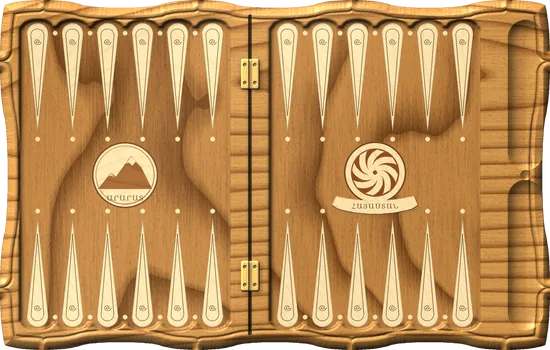
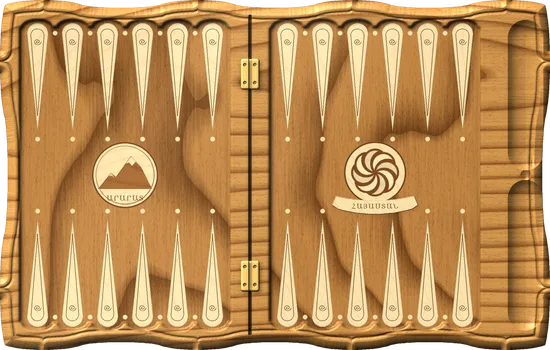
Аревахач-маркетри на досках, объяснение запрещённых ходов, плавная отмена хода

Changed region(s): [[0.6182, 0.4286, 0.7418, 0.5714]]

diff --git a/index.html b/index.html
@@ -719,7 +719,7 @@ function doRoll(after){
 
 function applyStep(st,cb){
   const pl=G.turn, prev=G.s;
-  G.hist.push({s:prev,rem:G.rem.slice(),headUsed:G.headUsed});
+  G.hist.push({s:prev,rem:G.rem.slice(),headUsed:G.headUsed,grp:G.grp,st});
   G.s=st.ns; G.rem=removeOne(G.rem,st.d); if(st.from===0)G.headUsed++;
   G.sel=null;
   const n0=prev.n[st.src];
@@ -736,7 +736,7 @@ function applyStep(st,cb){
   });
 }
 function applyPath(path){
-  G.auto=true; let i=0;
+  G.auto=true; G.grp=(G.grp||0)+1; let i=0;   // шаги одного касания — одна группа для отмены
   const next=()=>{ if(i<path.length) applyStep(path[i++],()=>later(next,60)); else {G.auto=false; render();} };
   next();
 }
@@ -746,25 +746,78 @@ function afterStep(){
   else setStatus(`Осталось: <b>${G.rem.join(', ')}</b>.`);
   render();
 }
-function fly(pl,[x0,y0],[x1,y1],toOff,done){
+function fly(pl,[x0,y0],[x1,y1],toOff,done,fromOff){
   const g=document.createElementNS(NS,'g');
   g.innerHTML=checker(0,0,pl);
   $('lFx').appendChild(g);
   const t0=performance.now(), D=matchMedia('(prefers-reduced-motion: reduce)').matches?1:300;
   busy=true;
+  let finished=false;
+  const finish=()=>{ if(finished) return; finished=true; g.remove(); busy=false; done(); };
   const step=t=>{
+    if(finished) return;
     let k=Math.min(1,(t-t0)/D); const e=k<.5?2*k*k:1-Math.pow(-2*k+2,2)/2;
     const x=x0+(x1-x0)*e, y=y0+(y1-y0)*e-Math.sin(Math.PI*e)*40;
-    const sc=toOff?1-0.4*e:1;
+    const sc=toOff?1-0.4*e:fromOff?.6+.4*e:1;
     g.setAttribute('transform',`translate(${x},${y}) scale(${sc})`);
-    if(k<1) requestAnimationFrame(step); else {g.remove(); busy=false; done();}
+    if(k<1) requestAnimationFrame(step); else finish();
   };
   requestAnimationFrame(step);
+  setTimeout(finish,D+150);   // если приложение свернули посреди анимации — ход всё равно завершится
 }
 function undo(){
   if(busy||G.auto||!G.hist.length||!isHuman(G.turn)||G.phase!=='move') return;
-  const h=G.hist.pop(); G.s=h.s; G.rem=h.rem; G.headUsed=h.headUsed; G.sel=null;
-  refreshSteps(); setStatus(`Ход отменён. Осталось: <b>${G.rem.join(', ')}</b>.`); render();
+  // отменяем весь ход одного касания (например 2+2) и плавно возвращаем шашку на место
+  const pl=G.turn, last=G.hist[G.hist.length-1];
+  let first=last;
+  while(G.hist.length&&G.hist[G.hist.length-1].grp===last.grp) first=G.hist.pop();
+  const cur=G.s, lst=last.st;
+  let from;
+  if(lst.to==='off') from=traySlot(pl,cur.off[pl]-1);
+  else{const n=cur.n[lst.to]; from=slotXY(lst.to,n-1,n);}
+  G.s=first.s; G.rem=first.rem; G.headUsed=first.headUsed; G.sel=null;
+  const src=first.st.src, n=G.s.n[src], to=slotXY(src,n-1,n);
+  refreshSteps(); flyHide=src; render();
+  fly(pl,from,to,false,()=>{
+    flyHide=null; sClack(n>1);
+    setStatus(`Ход отменён. Осталось: <b>${G.rem.join(', ')}</b>.`); render();
+  },lst.to==='off');
+}
+// Почему выбранная шашка не может пойти на пункт t — понятным языком
+function explainMove(src,t){
+  const ctx=curCtx(), pl=ctx.pl, opp=1-pl, from=P(pl,src);
+  if(t==='off') return homeCount(ctx.s,pl)<15
+    ? 'Выбрасывать шашки можно, только когда все 15 стоят в доме.'
+    : 'Эту шашку сейчас не выбросить: больший кубик можно взять, только если на дальних пунктах дома шашек нет.';
+  const to=P(pl,t), dist=to-from;
+  if(dist<=0) return 'Шашки ходят только вперёд, против часовой стрелки.';
+  const sums=new Set([0]);
+  for(const d of ctx.rem) for(const v of [...sums]) sums.add(v+d);
+  if(!sums.has(dist)) return `На ${dist} не сходить: на кубиках ${ctx.rem.join(', ')}.`;
+  if(own(ctx.s,t,opp)) return 'Пункт занят соперником — туда ходить нельзя.';
+  if(from===0&&ctx.headUsed>=ctx.headLimit) return 'С головы за ход снимается только одна шашка (две — лишь при первом броске 6‑6, 4‑4 или 3‑3).';
+  let why=null;
+  const go=(c,pos,acc)=>{
+    if(acc===dist) return true;
+    for(const d of new Set(c.rem)){
+      if(acc+d>dist) continue;
+      const ns=tryStep(c.s,pl,pos,d,c);
+      if(!ns){
+        const j=P(pl,pos+d);
+        if(own(c.s,j,opp)) why=why||{k:'mid',d:acc+d};
+        else if(pos===0&&c.headUsed>=c.headLimit) why=why||{k:'head'};
+        else why=why||{k:'block'};
+        continue;
+      }
+      if(go(nextCtx(c,{from:pos,d,ns}),pos+d,acc+d)) return true;
+    }
+    return false;
+  };
+  if(go(ctx,from,0)) return 'Так нельзя: после этого хода остальные кубики сыграть не получится, а по правилам нужно сыграть все, что можно (если только один — больший).';
+  if(!why) return `На ${dist} не сходить: на кубиках ${ctx.rem.join(', ')}.`;
+  if(why.k==='mid') return `Промежуточный пункт (через ${why.d}) занят соперником. При ходе одной шашкой на сумму кубиков каждый промежуточный пункт должен быть свободен.`;
+  if(why.k==='head') return 'С головы за ход снимается только одна шашка.';
+  return 'Нельзя ставить заграждение из 6 шашек подряд, если впереди него нет ни одной шашки соперника.';
 }
 function endTurn(){
   G.turn=1-G.turn; G.phase='roll'; G.rem=[]; G.hist=[]; G.sel=null; G.steps=[]; G.targets=null;
@@ -967,6 +1020,8 @@ $('board').addEventListener('click',e=>{
   if(t!=='off'&&G.steps.some(x=>x.src===t)){
     G.sel=G.sel===t?null:t; G.targets=null; render(); return;
   }
+  if(G.sel!=null&&t!==G.sel){ setStatus(explainMove(G.sel,t)); return; }   // выбор не сбрасываем
+  if(t!=='off'&&own(G.s,t,G.turn)){ setStatus('Этой шашкой сейчас не сходить. Подсвечены шашки, которыми можно ходить.'); return; }
   G.sel=null; G.targets=null; render();
 });
 $('bMain').addEventListener('click',()=>{

diff --git a/sw.js b/sw.js
@@ -1,5 +1,5 @@
 // Офлайн-кэш: страница, доски, звуки и шрифты кэшируются при установке.
-const VERSION = 'nardy-v4';
+const VERSION = 'nardy-v5';
 const SHELL = [
   './',
   'index.html',

diff --git a/tools/render_boards.py b/tools/render_boards.py
@@ -181,20 +181,48 @@ def star_poly(cx, cy, R, r, n=8, rot=-90):
     return pts
 
 
-def arevakhach_petals(cx, cy, R, n=8):
-    """Лопасти знака вечности: дуги, закрученные по часовой стрелке."""
-    petals = []
+def arevakhach_masks(cx, cy, R, n=8, band=.085, rot=-90):
+    """Аревахач по классическому построению: 8 кругов радиуса R/2 через центр.
+    Лопасть k — серп между кругом k и соседним кругом k+1; тёмные полосы — границы кругов.
+    Возвращает (окно-срез, маска всего знака, список масок лопастей, углы лопастей) в локальном окне."""
+    pad = 4
+    x0, x1 = int((cx - R - pad) * S), int((cx + R + pad) * S)
+    y0, y1 = int((cy - R - pad) * S), int((cy + R + pad) * S)
+    yy, xx = np.mgrid[y0:y1, x0:x1] / S
+    r = np.hypot(xx - cx, yy - cy)
+    w = R * band * (.35 + .65 * np.clip(r / R, 0, 1))        # полоса тоньше к центру, как на эскизе
+    ds = []
     for k in range(n):
-        a = k * 360 / n
-        pts = []
-        for t in np.linspace(0, 1, 40):  # внешний край: от центра наружу с закруткой
-            rr = R * (.1 + .9 * t); ang = a + 95 * t ** .85
-            pts.append((cx + rr * math.cos(math.radians(ang)), cy + rr * math.sin(math.radians(ang))))
-        for t in np.linspace(1, 0, 40):  # внутренний край возвращается к центру со сдвигом
-            rr = R * (.1 + .9 * t); ang = a + 360 / n + 70 * t ** .7
-            pts.append((cx + rr * math.cos(math.radians(ang)), cy + rr * math.sin(math.radians(ang))))
-        petals.append(pts)
-    return petals
+        a = math.radians(rot + k * 360 / n)
+        ccx, ccy = cx + R / 2 * math.cos(a), cy + R / 2 * math.sin(a)
+        ds.append(np.hypot(xx - ccx, yy - ccy) - R / 2)
+    aa = lambda v: np.clip(.5 + v * S, 0, 1)
+    union = np.max([aa(-d) for d in ds], axis=0)
+    petals = [aa(-ds[k] - w) * aa(ds[(k + 1) % n] - w) for k in range(n)]
+    angles = [rot + k * 360 / n + 360 / n / 2 for k in range(n)]
+    return (slice(y0, y1), slice(x0, x1)), union, petals, angles
+
+
+def arevakhach_inlay(alb, h, cx, cy, R, light, dark, seed, gloss=None):
+    """Маркетри: знак из тёмного ореха, лопасти — светлое дерево, волокна каждой лопасти вдоль неё."""
+    sl, union, petals, angles = arevakhach_masks(cx, cy, R)
+    hh, ww = union.shape
+    big = int(max(hh, ww) * 1.5)
+    dtex = wood(hh, ww, *dark, rings=18, seed=seed, contrast=.45, fiber=.12)
+    base = wood(big, big, *light, rings=16, seed=seed + 1, contrast=.3, fiber=.1, warp=1.2)
+    a = alb[sl]
+    a = a * (1 - union[..., None]) + dtex * union[..., None]
+    for k, pm in enumerate(petals):
+        rt = ndi.rotate(base, angles[k] + 90, axes=(0, 1), reshape=False, order=1, mode='reflect')
+        oy, ox = (big - hh) // 2, (big - ww) // 2
+        tex = rt[oy:oy + hh, ox:ox + ww] * (.94 + .1 * (k % 2))   # соседние лопасти чуть различаются тоном
+        a = a * (1 - pm[..., None]) + tex * pm[..., None]
+        glue = np.clip(pm - ndi.grey_erosion(pm, size=3), 0, 1)
+        a = a * (1 - glue[..., None] * .35)
+    alb[sl] = a
+    lit = np.max(petals, axis=0)
+    h[sl] = h[sl] - union * .4 + lit * .25                    # лопасти чуть выше полос: живой рельеф маркетри
+    return union
 
 
 def fleur(x, y, d):
@@ -333,16 +361,13 @@ def board_ararat():
     h -= dm * .6
     fl = polys(sum([fleur(ptX(i), (276 if is_top(i) else 424), 1 if is_top(i) else -1) for i in range(24)], []))
     alb = put(alb, fl, btex)
-    # розетки-аревахач: светлые лопасти на тёмном диске
+    # аревахач — маркетри: тёмный орех и бук, вокруг тонкий инкрустированный круг
     for cx in (250, 750):
-        disc = circle(cx, 350, 66)
-        alb = put(alb, disc, wood(H, W, (.40, .22, .10), (.20, .10, .04), rings=30, seed=cx, contrast=.4))
-        pm = polys(arevakhach_petals(cx, 350, 62))
-        alb = put(alb, pm, btex)
-        pe = np.clip(pm - ndi.grey_erosion(pm, size=3), 0, 1)
-        alb = alb * (1 - pe[..., None] * .5)
-        ring = np.clip(circle(cx, 350, 70) - circle(cx, 350, 66.5), 0, 1)
-        alb = put(alb, ring, btex)
+        arevakhach_inlay(alb, h, cx, 350, 64, BEECH, ((.30, .16, .07), (.12, .06, .02)), cx)
+        for r0, r1 in ((72, 70.4), (75.5, 74.7)):
+            ring = np.clip(circle(cx, 350, r0) - circle(cx, 350, r1), 0, 1)
+            alb = put(alb, ring, btex)
+            h -= ring * .3
     # стык половин и петли
     gap = rrect(497.5, 30, 502.5, 670, 2)
     h -= gap * 14
@@ -410,8 +435,7 @@ def board_yerevan():
     disc2 = circle(750, 345, 62)
     alb = put(alb, disc2, btex)
     alb = put(alb, np.clip(circle(750, 345, 62) - circle(750, 345, 59), 0, 1), np.ones((H, W, 3)) * burn)
-    pm = polys(arevakhach_petals(750, 345, 46))
-    alb = put(alb, np.clip(circle(750, 345, 48) - pm, 0, 1) * disc2, np.ones((H, W, 3)) * burn * 1.25)
+    arevakhach_inlay(alb, h, 750, 345, 48, BIRCH, ((.50, .28, .11), (.30, .15, .05)), 77)
     ribbon = poly(bez((672, 392), (720, 404), (780, 404), (828, 392), 30) + [(836, 410), (824, 418)] +
                   bez((824, 418), (780, 432), (720, 432), (676, 418), 30) + [(664, 410)])
     alb = put(alb, ribbon, btex)
